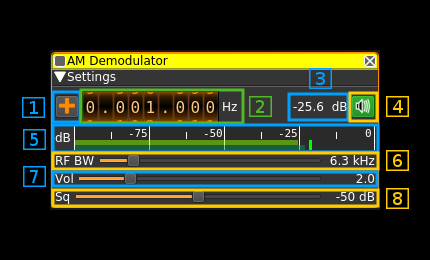
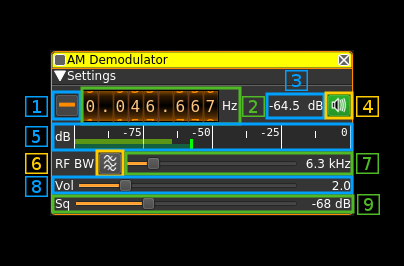
AM Demod: added optional bandpass boxcar filter

diff --git a/plugins/channelrx/demodam/amdemod.h b/plugins/channelrx/demodam/amdemod.h
@@ -24,6 +24,7 @@
 #include "dsp/interpolator.h"
 #include "dsp/movingaverage.h"
 #include "dsp/agc.h"
+#include "dsp/bandpass.h"
 #include "audio/audiofifo.h"
 #include "util/message.h"
 
@@ -33,7 +34,7 @@ public:
 	AMDemod();
 	~AMDemod();
 
-	void configure(MessageQueue* messageQueue, Real rfBandwidth, Real volume, Real squelch, bool audioMute);
+	void configure(MessageQueue* messageQueue, Real rfBandwidth, Real volume, Real squelch, bool audioMute, bool bandpassEnable);
 
 	virtual void feed(const SampleVector::const_iterator& begin, const SampleVector::const_iterator& end, bool po);
 	virtual void start();
@@ -62,10 +63,11 @@ private:
 		Real getVolume() const { return m_volume; }
 		Real getSquelch() const { return m_squelch; }
 		bool getAudioMute() const { return m_audioMute; }
+		bool getBandpassEnable() const { return m_bandpassEnable; }
 
-		static MsgConfigureAMDemod* create(Real rfBandwidth, Real volume, Real squelch, bool audioMute)
+		static MsgConfigureAMDemod* create(Real rfBandwidth, Real volume, Real squelch, bool audioMute, bool bandpassEnable)
 		{
-			return new MsgConfigureAMDemod(rfBandwidth, volume, squelch, audioMute);
+			return new MsgConfigureAMDemod(rfBandwidth, volume, squelch, audioMute, bandpassEnable);
 		}
 
 	private:
@@ -73,13 +75,15 @@ private:
 		Real m_volume;
 		Real m_squelch;
 		bool m_audioMute;
+		bool m_bandpassEnable;
 
-		MsgConfigureAMDemod(Real rfBandwidth, Real volume, Real squelch, bool audioMute) :
+		MsgConfigureAMDemod(Real rfBandwidth, Real volume, Real squelch, bool audioMute, bool bandpassEnable) :
 			Message(),
 			m_rfBandwidth(rfBandwidth),
 			m_volume(volume),
 			m_squelch(squelch),
-			m_audioMute(audioMute)
+			m_audioMute(audioMute),
+			m_bandpassEnable(bandpassEnable)
 		{ }
 	};
 
@@ -102,6 +106,7 @@ private:
 		Real m_volume;
 		quint32 m_audioSampleRate;
 		bool m_audioMute;
+		bool m_bandpassEnable;
 
 		Config() :
 			m_inputSampleRate(-1),
@@ -110,7 +115,8 @@ private:
 			m_squelch(0),
 			m_volume(0),
 			m_audioSampleRate(0),
-			m_audioMute(false)
+			m_audioMute(false),
+			m_bandpassEnable(false)
 		{ }
 	};
 
@@ -132,6 +138,7 @@ private:
 
 	MovingAverage<double> m_movingAverage;
 	SimpleAGC m_volumeAGC;
+    Bandpass<Real> m_bandpass;
 
 	AudioVector m_audioBuffer;
 	uint m_audioBufferFill;
@@ -180,18 +187,18 @@ private:
         if ((m_squelchCount >= m_running.m_audioSampleRate / 20) && !m_running.m_audioMute)
         {
             Real demod = sqrt(magsq);
-
-            if (demod > 1)
-            {
-                demod = 1;
-            }
-
             m_volumeAGC.feed(demod);
             demod /= m_volumeAGC.getValue();
+
+            if (m_running.m_bandpassEnable)
+            {
+                demod = m_bandpass.filter(demod);
+                demod /= 301.0f;
+            }
+
             Real attack = m_squelchCount / (0.1f * m_running.m_audioSampleRate);
             sample = (0.5 - demod) * attack * 2048 * m_running.m_volume;
-//            demod *= ((0.003 * attack) / m_volumeAGC.getValue());
-//            sample = demod * 32700 * 16;
+
             m_squelchOpen = true;
         }
         else

diff --git a/plugins/channelrx/demodam/amdemod.cpp b/plugins/channelrx/demodam/amdemod.cpp
@@ -63,9 +63,9 @@ AMDemod::~AMDemod()
 	DSPEngine::instance()->removeAudioSink(&m_audioFifo);
 }
 
-void AMDemod::configure(MessageQueue* messageQueue, Real rfBandwidth, Real volume, Real squelch, bool audioMute)
+void AMDemod::configure(MessageQueue* messageQueue, Real rfBandwidth, Real volume, Real squelch, bool audioMute, bool bandpassEnable)
 {
-	Message* cmd = MsgConfigureAMDemod::create(rfBandwidth, volume, squelch, audioMute);
+	Message* cmd = MsgConfigureAMDemod::create(rfBandwidth, volume, squelch, audioMute, bandpassEnable);
 	messageQueue->push(cmd);
 }
 
@@ -157,6 +157,7 @@ bool AMDemod::handleMessage(const Message& cmd)
 		m_config.m_volume = cfg.getVolume();
 		m_config.m_squelch = cfg.getSquelch();
 		m_config.m_audioMute = cfg.getAudioMute();
+		m_config.m_bandpassEnable = cfg.getBandpassEnable();
 
 		apply();
 
@@ -164,7 +165,8 @@ bool AMDemod::handleMessage(const Message& cmd)
 				<< " m_rfBandwidth: " << m_config.m_rfBandwidth
 				<< " m_volume: " << m_config.m_volume
 				<< " m_squelch: " << m_config.m_squelch
-				<< " m_audioMute: " << m_config.m_audioMute;
+				<< " m_audioMute: " << m_config.m_audioMute
+				<< " m_bandpassEnable: " << m_config.m_bandpassEnable;
 
 		return true;
 	}
@@ -185,12 +187,14 @@ void AMDemod::apply()
 
 	if((m_config.m_inputSampleRate != m_running.m_inputSampleRate) ||
 		(m_config.m_rfBandwidth != m_running.m_rfBandwidth) ||
-		(m_config.m_audioSampleRate != m_running.m_audioSampleRate))
+		(m_config.m_audioSampleRate != m_running.m_audioSampleRate) ||
+		(m_config.m_bandpassEnable != m_running.m_bandpassEnable))
 	{
 		m_settingsMutex.lock();
-		m_interpolator.create(16, m_config.m_inputSampleRate, m_config.m_rfBandwidth / 2.2);
+		m_interpolator.create(16, m_config.m_inputSampleRate, m_config.m_rfBandwidth / 2.2f);
 		m_interpolatorDistanceRemain = 0;
 		m_interpolatorDistance = (Real) m_config.m_inputSampleRate / (Real) m_config.m_audioSampleRate;
+		m_bandpass.create(301, m_config.m_audioSampleRate, 300.0, m_config.m_rfBandwidth / 2.0f);
 		m_settingsMutex.unlock();
 	}
 
@@ -207,4 +211,5 @@ void AMDemod::apply()
 	m_running.m_volume = m_config.m_volume;
 	m_running.m_audioSampleRate = m_config.m_audioSampleRate;
 	m_running.m_audioMute = m_config.m_audioMute;
+	m_running.m_bandpassEnable = m_config.m_bandpassEnable;
 }

diff --git a/plugins/channelrx/demodam/amdemodgui.cpp b/plugins/channelrx/demodam/amdemodgui.cpp
@@ -88,6 +88,7 @@ QByteArray AMDemodGUI::serialize() const
 	s.writeS32(4, ui->volume->value());
 	s.writeS32(5, ui->squelch->value());
 	s.writeU32(7, m_channelMarker.getColor().rgb());
+	s.writeBool(8, ui->bandpassEnable->isChecked());
 	return s.final();
 }
 
@@ -106,6 +107,7 @@ bool AMDemodGUI::deserialize(const QByteArray& data)
 		QByteArray bytetmp;
 		quint32 u32tmp;
 		qint32 tmp;
+		bool boolTmp;
 
 		blockApplySettings(true);
 		m_channelMarker.blockSignals(true);
@@ -125,6 +127,9 @@ bool AMDemodGUI::deserialize(const QByteArray& data)
         {
 			m_channelMarker.setColor(u32tmp);
         }
+
+        d.readBool(8, &boolTmp, false);
+        ui->bandpassEnable->setChecked(boolTmp);
 
         blockApplySettings(false);
 		m_channelMarker.blockSignals(false);
@@ -167,6 +172,11 @@ void AMDemodGUI::on_deltaFrequency_changed(quint64 value)
 	} else {
 		m_channelMarker.setCenterFrequency(value);
 	}
+}
+
+void AMDemodGUI::on_bandpassEnable_toggled(bool checked)
+{
+    applySettings();
 }
 
 void AMDemodGUI::on_rfBW_valueChanged(int value)
@@ -284,7 +294,8 @@ void AMDemodGUI::applySettings()
 			ui->rfBW->value() * 100.0,
 			ui->volume->value() / 10.0,
 			ui->squelch->value(),
-			ui->audioMute->isChecked());
+			ui->audioMute->isChecked(),
+			ui->bandpassEnable->isChecked());
 	}
 }
 

diff --git a/plugins/channelrx/demodam/amdemodgui.h b/plugins/channelrx/demodam/amdemodgui.h
@@ -41,6 +41,7 @@ private slots:
 	void viewChanged();
 	void on_deltaFrequency_changed(quint64 value);
 	void on_deltaMinus_toggled(bool minus);
+	void on_bandpassEnable_toggled(bool checked);
 	void on_rfBW_valueChanged(int value);
 	void on_volume_valueChanged(int value);
 	void on_squelch_valueChanged(int value);

diff --git a/plugins/channelrx/demodam/readme.md b/plugins/channelrx/demodam/readme.md
@@ -30,14 +30,18 @@ Use this button to toggle audio mute for this channel. The button will light up 
   - bottom bar (blue green): instantaneous peak value
   - tip vertical bar (bright green): peak hold value
 
-<h3>6: RF bandwidth</h3>
+<h3>6:Bandpass boxcar filter toggle</h3>
+
+Use this button to enable or disable the bandpass boxcar (sharp) filter with low cutoff at 300 Hz and high cutoff at half the RF bandwidth. This may help readibility of low signals on air traffic communications but degrades audio on comfortable AM broadcast transmissions. 
+
+<h3>7: RF bandwidth</h3>
 
 This is the bandwidth in kHz of the channel signal before demodulation. It can be set continuously in 1 kHz steps from 1 to 40 kHz.
 
-<h3>7: Volume</h3>
+<h3>8: Volume</h3>
 
 This is the volume of the audio signal from 0.0 (mute) to 10.0 (maximum). It can be varied continuously in 0.1 steps using the dial button.
 
-<h3>8: Squelch threshold</h3>
+<h3>9: Squelch threshold</h3>
 
 This is the squelch threshold in dB. The average total power received in the signal bandwidth before demodulation is compared to this value and the squelch input is open above this value. It can be varied continuously in 0.1 dB steps from 0.0 to -100.0 dB using the dial button.
